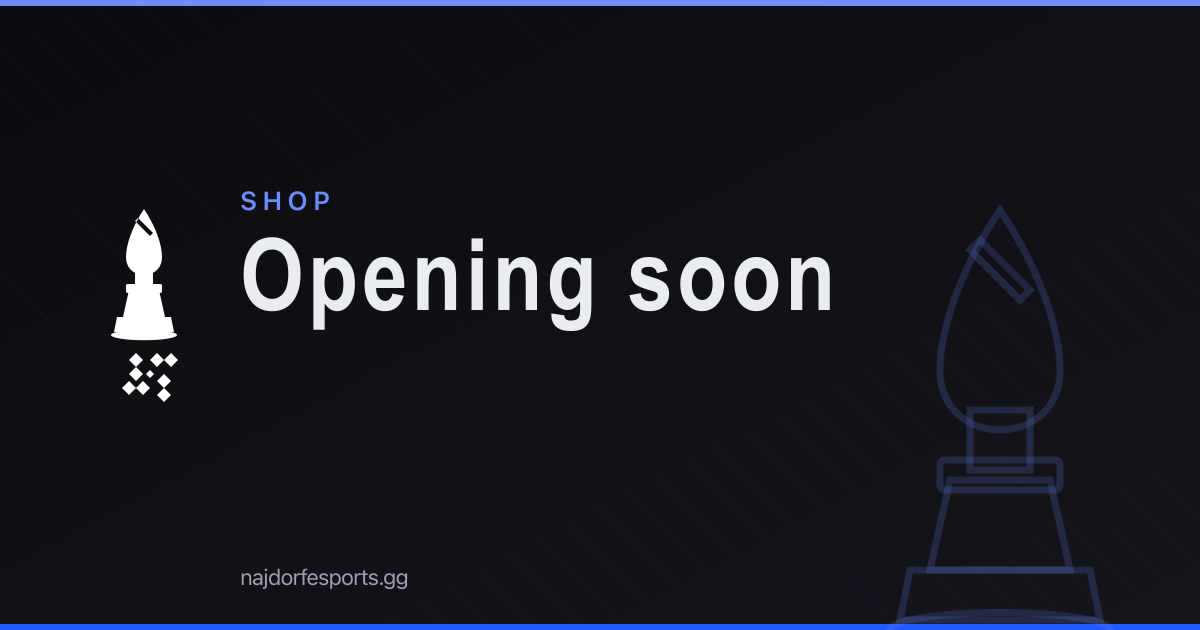
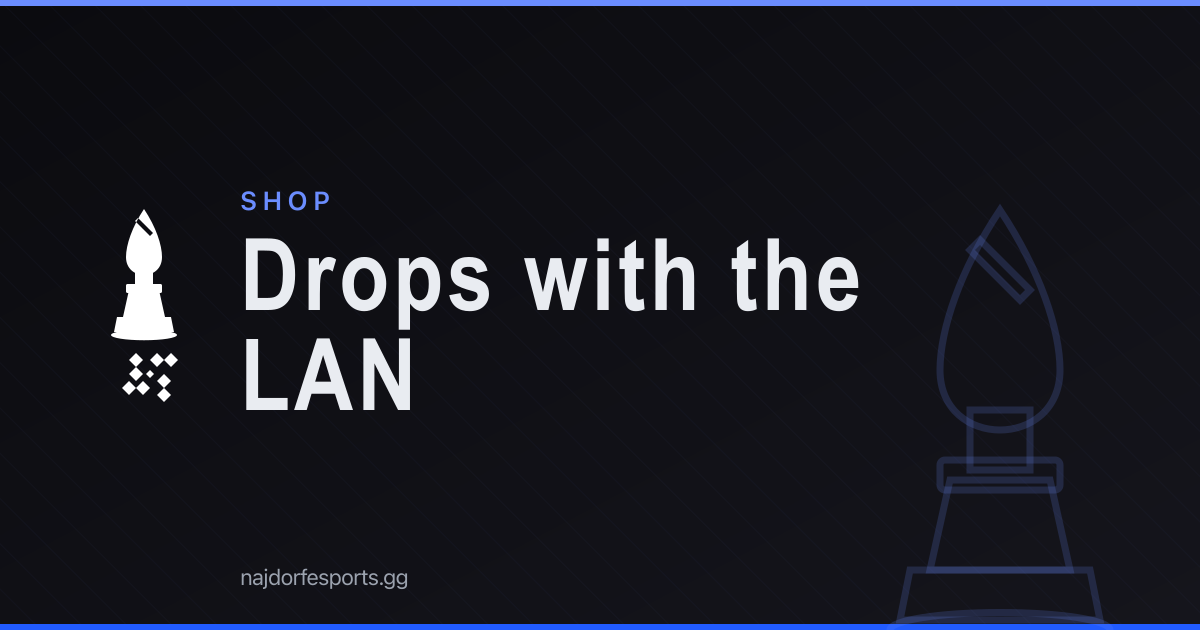
polish: depalleciate placeholder feel across news, shop, and incidental copy
News covers — the typographic block above each article was rendering as
a wide empty letterbox once the bishop watermark dropped behind it. This
pass:
  - tightens card aspect 16:7 → 16:9 and hero 24:9 → 21:9
  - bumps bishop watermark opacity 0.18 → 0.32 and grows it
  - adds an X-chess cross watermark in the lower-left (echoes the org
    mark, gives the cover a second focal point so the middle never
    reads as dead space)
  - adds a 2px tinted top accent rule so the cover has a defined edge
  - subtle drop-shadow on the title for readability over the watermarks

Shop page — replaces the "Store opening soon." placeholder copy with an
intentional landing: bishop watermark drifting in the bg, confident
headline ("Drops with the LAN."), specifics (OWCS Pacific Stage 2,
June 4), and Discord + X CTAs for launch notification. OG card title
follows ("Drops with the LAN" vs the old "Opening soon").

Tone enum — rename the news cover tone values from `crimson` / `gold`
(stale red/gold-palette names) to `primary` / `secondary` so the labels
match the actual blue palette. Touches NewsCover, content.config.ts,
generate-og.mjs, and the two existing post front matters.

Smaller polish:
  - PlayerAvatar fallback aria-label: `${handle} avatar placeholder` →
    just `${handle}` (cleaner screen-reader output).
  - Privacy policy: "Twitch placeholder" → "Twitch preview" (the
    technical term confused intent).
  - Terms: "Shop placeholder page" → "Shop page is a notice of future
[…]

Changed region(s): [[0.185, 0.3619, 0.74, 0.6635]]

diff --git a/src/content.config.ts b/src/content.config.ts
@@ -13,10 +13,11 @@ const news = defineCollection({
      * Optional editorial controls for the typographic cover rendered on
      * the article hero + news-index cards. `eyebrow` is the small
      * uppercase label above the title ("Brand", "Match Report", etc.);
-     * `tone` flips the cover accent — crimson (default), gold, or split.
+     * `tone` flips the cover accent — primary (default), secondary, or
+     * split (gradient between both).
      */
     eyebrow: z.string().optional(),
-    tone: z.enum(['crimson', 'gold', 'split']).default('crimson'),
+    tone: z.enum(['primary', 'secondary', 'split']).default('primary'),
   }),
 });
 

diff --git a/src/content/news/2026-05-najdorf-rebrand.md b/src/content/news/2026-05-najdorf-rebrand.md
@@ -3,7 +3,7 @@ title: 'Najdorf Esports: A New Name, A Familiar Aggression'
 date: 2026-05-23
 description: "We're rebranding from Rankers to Najdorf Esports ahead of OWCS Pacific Stage 2. The five who played Stage 1 are still the five going into Stage 2."
 eyebrow: 'Brand'
-tone: 'crimson'
+tone: 'primary'
 ---
 
 We're rebranding. The org that competed as Rankers in OWCS Pacific Stage 1 is now **Najdorf Esports**.

diff --git a/src/content/news/2026-05-why-the-najdorf.md b/src/content/news/2026-05-why-the-najdorf.md
@@ -3,7 +3,7 @@ title: 'Why the Najdorf?'
 date: 2026-05-23
 description: "A short essay on why a 1.e4 c5 2.Nf3 d6 3.d4 cxd4 4.Nxd4 Nf6 5.Nc3 a6 sequence is the right name for an Overwatch team."
 eyebrow: 'Essay'
-tone: 'gold'
+tone: 'secondary'
 ---
 
 Most esports org names are mostly vibes. We wanted ours to mean something specific.
